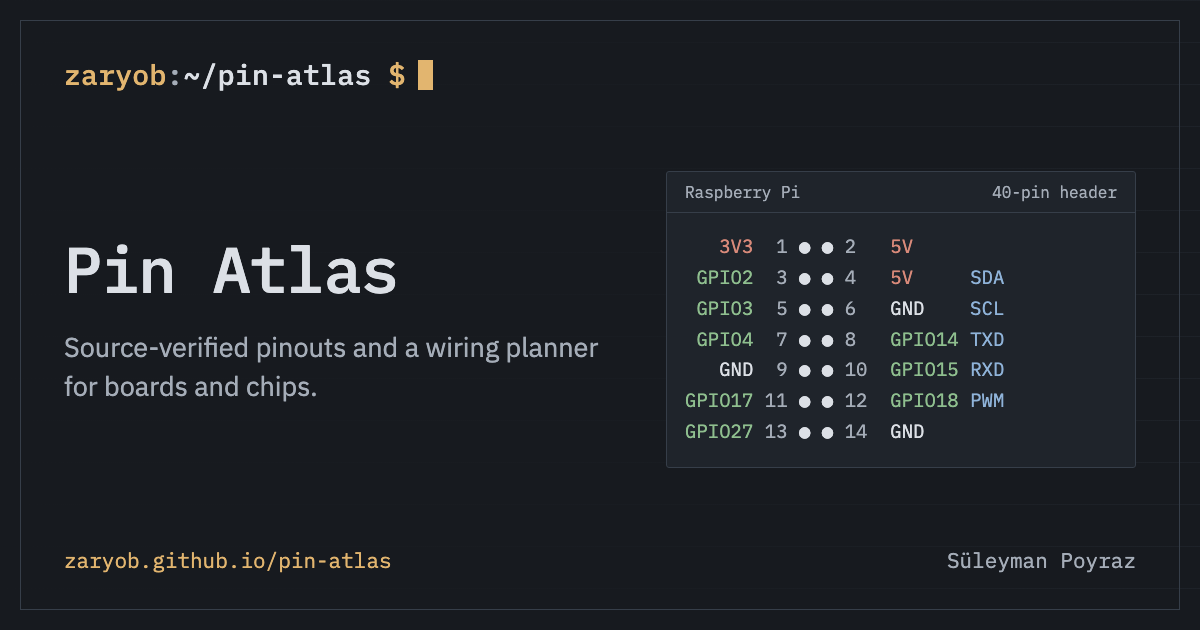
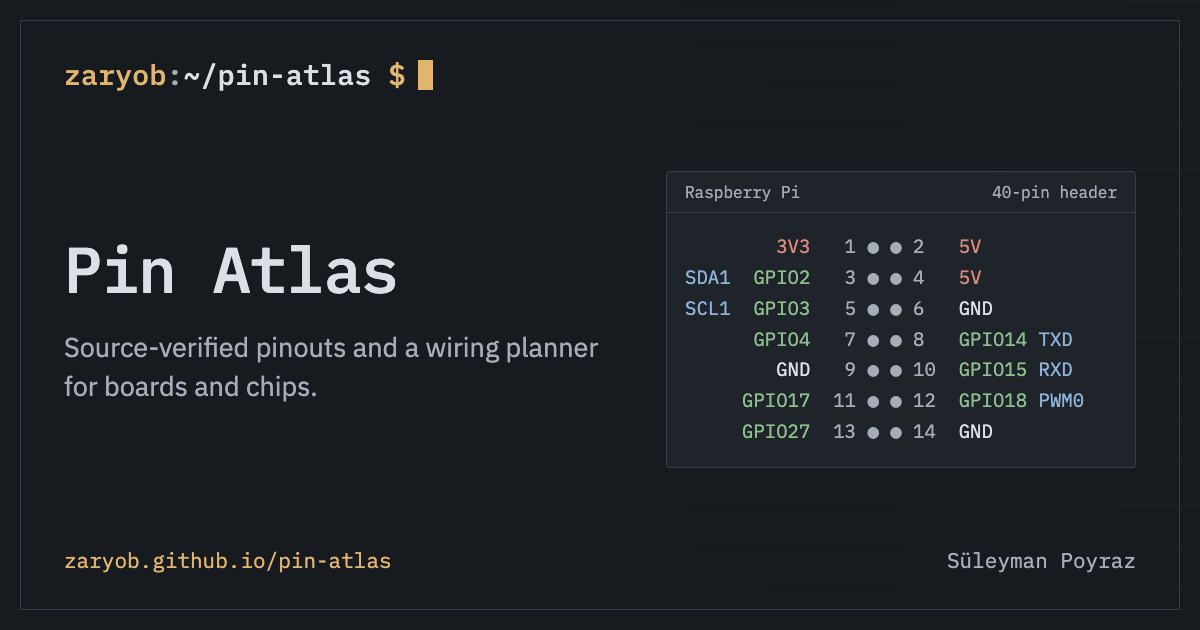
Lay out the home hero as the console hero with a Raspberry Pi header panel

Changed region(s): [[0.555, 0.3619, 0.8942, 0.6937], [0.8017, 0.3619, 0.8325, 0.3921], [0.5858, 0.3619, 0.6167, 0.3921]]

diff --git a/public/assets/console/theme.css b/public/assets/console/theme.css
@@ -152,6 +152,34 @@ body.console-site, body.pin-atlas-site { margin: 0; background: var(--paper); co
 .console-sr-only { position: absolute; width: 1px; height: 1px; margin: -1px; padding: 0; overflow: hidden; clip: rect(0,0,0,0); white-space: nowrap; border: 0; }
 .console-site .skip-link { position: fixed; top: -100px; left: 16px; z-index: 50; background: var(--surface); color: var(--ink); padding: 8px 14px; transform: none; }
 .console-site .skip-link:focus { top: 10px; }
+/* Landing hero shared by the five sites: prompt line, title and lead on the left, a small terminal panel on the right. */
+.console-hero { --hero-green: #37643b; --hero-red: #a02d35; --hero-blue: #2f5f8f; border-bottom: 1px solid var(--line); }
+:root[data-theme="dark"] .console-hero { --hero-green: #a7ca9b; --hero-red: #f2a0a3; --hero-blue: #9cc0e4; }
+@media (prefers-color-scheme: dark) { :root:not([data-theme]) .console-hero { --hero-green: #a7ca9b; --hero-red: #f2a0a3; --hero-blue: #9cc0e4; } }
+.console-hero { background: repeating-linear-gradient(to bottom, transparent 0 41px, color-mix(in srgb, var(--line) 35%, transparent) 41px 42px), var(--paper); }
+.console-hero__inner { max-width: var(--shell-width); margin: 0 auto; padding: clamp(28px, 5vw, 64px) var(--gutter); display: grid; grid-template-columns: minmax(0, 1fr) minmax(0, 31rem); gap: 28px 56px; align-items: center; }
+.console-hero__prompt { grid-column: 1 / -1; margin: 0; font: 500 var(--text-h4)/1.4 var(--font-mono); color: var(--ink); overflow-wrap: anywhere; }
+.console-hero__prompt b { color: var(--accent); font-weight: 500; }
+.console-hero__prompt i { color: var(--muted); font-style: normal; }
+.console-hero__cursor { display: inline-block; width: .55em; height: 1.1em; margin-left: .45em; vertical-align: -.18em; background: var(--accent); animation: console-hero-blink 1.1s steps(1) infinite; }
+@keyframes console-hero-blink { 50% { opacity: 0; } }
+@media (prefers-reduced-motion: reduce) { .console-hero__cursor { animation: none; } }
+.console-hero__copy { min-width: 0; }
+.console-site .console-hero__title, .pin-atlas-site .console-hero__title, .console-hero__title { margin: 0; font: 500 clamp(2.1rem, 1.4rem + 3vw, 3.75rem)/1.1 var(--font-mono); letter-spacing: -.02em; color: var(--ink); text-wrap: balance; overflow-wrap: anywhere; }
+.console-hero__lead { margin: 18px 0 0; max-width: 36rem; font: 400 var(--text-prose)/1.6 var(--font-prose); color: var(--muted); }
+.console-hero__actions { display: flex; flex-wrap: wrap; gap: 12px; margin-top: 28px; }
+.console-hero__panel { margin: 0; min-width: 0; border: 1px solid var(--line); border-radius: 3px; background: var(--surface); overflow: hidden; }
+.console-hero__panel-head { display: flex; justify-content: space-between; gap: 12px; padding: 9px 16px; border-bottom: 1px solid var(--line); color: var(--muted); font: 400 var(--text-xs)/1.5 var(--font-mono); }
+.console-hero__screen { margin: 0; padding: 16px 18px 18px; overflow-x: auto; white-space: pre; color: var(--ink); font: 400 var(--text-sm)/1.75 var(--font-mono); }
+.console-hero__screen a { color: var(--accent); text-decoration: none; }
+.console-hero__screen a:hover { text-decoration: underline; }
+.console-hero__screen :is(.h-dir, .h-num) { color: var(--accent); }
+.console-hero__screen .h-dim { color: var(--muted); }
+.console-hero__screen .h-ok { color: var(--hero-green); }
+.console-hero__screen .h-hot { color: var(--hero-red); }
+.console-hero__screen .h-bus { color: var(--hero-blue); }
+@media (max-width: 960px) { .console-hero__inner { grid-template-columns: minmax(0, 1fr); } }
+@media print { .console-hero__panel, .console-hero__cursor { display: none; } }
 .console-suite { border-top: 1px solid var(--line); margin-top: 48px; font-size: var(--text-sm); }
 .console-suite + .console-footer, .console-suite + footer { margin-top: 0; }
 .console-suite__inner { max-width: var(--shell-width); margin: 0 auto; padding: 24px var(--gutter) 20px; display: grid; grid-template-columns: 1fr auto; gap: 12px 36px; align-items: end; }

diff --git a/public/index.html b/public/index.html
@@ -33,13 +33,16 @@ title: Pin Atlas — Source-verified pinout guide
 
   <!-- HOME VIEW -->
   <section id="home-view" class="home-view" hidden>
-    <div class="home-hero">
+    <div class="home-hero console-hero console-hero--pins">
+      <div class="console-hero__inner">
+        <p class="console-hero__prompt" aria-hidden="true"><b>zaryob</b><i>:</i>~/pin-atlas <b>$</b><span class="console-hero__cursor"></span></p>
+        <div class="console-hero__copy">
       <div class="home-badge">
         <span class="tiny-dot"></span>
         <span data-i18n="homeBadge">v0.8 · Source-Verified Pin Guide</span>
       </div>
-      <h1 class="home-title">Pin Atlas</h1>
-      <p class="home-lead" data-i18n="homeLead">Interactive pin maps and wiring plans checked against manufacturer documentation and identified board references.</p>
+      <h1 class="home-title console-hero__title">Pin Atlas</h1>
+      <p class="home-lead console-hero__lead" data-i18n="homeLead">Interactive pin maps and wiring plans checked against manufacturer documentation and identified board references.</p>
 
       <div class="home-search-wrap">
         <label class="home-search-box">
@@ -47,6 +50,19 @@ title: Pin Atlas — Source-verified pinout guide
           <input id="home-search" type="search" aria-label="Search the board library" data-i18n-aria-label="catalogSearch" placeholder="Kart, mikrodenetleyici veya aile ara (ör. RP2040, Nano, ESP32, Nucleo)…" data-i18n-placeholder="homeSearchPlaceholder" autocomplete="off">
           <kbd aria-hidden="true">/</kbd>
         </label>
+      </div>
+        </div>
+        <figure class="console-hero__panel">
+          <figcaption class="console-hero__panel-head"><span>Raspberry Pi 4 · 40-pin</span><a href="{{ '/boards/raspberry-pi-4/' | relative_url }}"><span data-i18n="heroPinTable">pin table →</span></a></figcaption>
+<div class="console-hero__screen">      <span class="h-hot">   3V3</span><span class="h-dim">  1 ● ● 2  </span> <span class="h-hot">5V     </span>
+<span class="h-bus">SDA1</span>  <span class="h-ok"> GPIO2</span><span class="h-dim">  3 ● ● 4  </span> <span class="h-hot">5V     </span>
+<span class="h-bus">SCL1</span>  <span class="h-ok"> GPIO3</span><span class="h-dim">  5 ● ● 6  </span> <span class="h-dim">GND    </span>
+      <span class="h-ok"> GPIO4</span><span class="h-dim">  7 ● ● 8  </span> <span class="h-ok">GPIO14 </span> <span class="h-bus">TXD</span>
+      <span class="h-dim">   GND</span><span class="h-dim">  9 ● ● 10 </span> <span class="h-ok">GPIO15 </span> <span class="h-bus">RXD</span>
+      <span class="h-ok">GPIO17</span><span class="h-dim"> 11 ● ● 12 </span> <span class="h-ok">GPIO18 </span> <span class="h-bus">PWM0</span>
+      <span class="h-ok">GPIO27</span><span class="h-dim"> 13 ● ● 14 </span> <span class="h-dim">GND    </span>
+<span class="h-dim">  …                <span data-i18n="heroMorePins">26 more pins</span></span></div>
+        </figure>
       </div>
     </div>
 

diff --git a/public/style.css b/public/style.css
@@ -1405,3 +1405,13 @@
   .static-pins tbody td.static-notes { min-width: 0; max-width: none; min-height: 52px; }
   .static-language { margin-left: 0; }
 }
+/* Home hero laid out with the shared console-hero component */
+.home-hero.console-hero { max-width: none; margin: 0 0 8px; padding: 0; text-align: left; }
+.console-hero .home-badge { margin-bottom: 18px; }
+.console-hero .home-title { margin: 0; }
+.console-hero .home-lead { margin: 16px 0 0; max-width: 36rem; }
+.console-hero .home-search-wrap { max-width: 40rem; margin: 26px 0 0; }
+.console-hero__panel-head a { color: var(--accent); }
+.home-view.is-searching .home-hero.console-hero :is(.console-hero__prompt, .console-hero__panel) { display: none; }
+.home-view.is-searching .home-hero.console-hero .console-hero__inner { grid-template-columns: minmax(0, 1fr); padding-block: 12px; }
+.home-hero.console-hero .console-hero__inner { padding-inline: 0; padding-top: 8px; }

diff --git a/public/i18n.js b/public/i18n.js
@@ -207,6 +207,8 @@
     "Home": ["Ana sayfa", "Home"],
     "home": ["Ana sayfa", "Home"],
     "homeBadge": ["v0.8 · Kaynak Doğrulamalı Pin Rehberi", "v0.8 · Source-Verified Pin Guide"],
+    "heroPinTable": ["pin tablosu →", "pin table →"],
+    "heroMorePins": ["26 pin daha", "26 more pins"],
     "homeTitle": ["Pin Atlas", "Pin Atlas"],
     "homeLead": ["Üretici belgeleri ve açıkça belirtilen kart referanslarıyla karşılaştırılmış etkileşimli pin haritaları ve bağlantı planları.", "Interactive pin maps and wiring plans checked against manufacturer documentation and identified board references."],
     "homeSearchPlaceholder": ["Kart, mikrodenetleyici veya aile ara (ör. RP2040, Nano, ESP32, Nucleo)…", "Search boards, chips, or families (e.g. RP2040, Nano, ESP32, Nucleo)…"],
